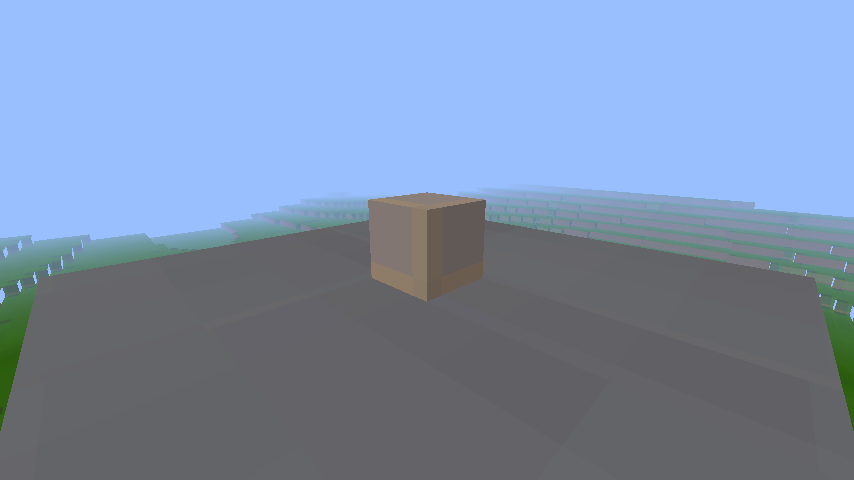
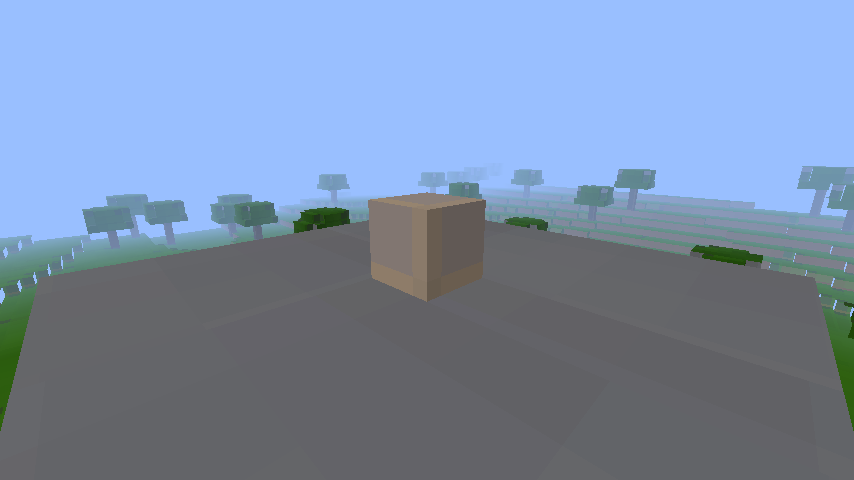
feat(interact+f3): raycast mine/place w/ 1.12 rules, block evidence sheets, F3 (#006 #008 #009)

diff --git a/game/index.html b/game/index.html
@@ -30,7 +30,7 @@ window.CF.REGISTRY = /*REGISTRY-START*/
   "log": {"id":17,"tier":1,"variants":{"oak":{"functional":true,"tiles":["log_side_oak","log_side_oak","log_top_oak","log_top_oak","log_side_oak","log_side_oak"],"hardness":2.0,"drop":"log","tool":null,"minTier":0,"solid":true,"light":0}}},
   "leaves": {"id":18,"tier":1,"variants":{"oak":{"functional":true,"tiles":["leaves_oak","leaves_oak","leaves_oak","leaves_oak","leaves_oak","leaves_oak"],"hardness":0.2,"drop":null,"tool":null,"minTier":0,"solid":true,"light":0}}},
   "bedrock": {"id":7,"tier":1,"variants":{"default":{"functional":false,"tiles":["bedrock","bedrock","bedrock","bedrock","bedrock","bedrock"],"hardness":-1,"drop":null,"tool":null,"minTier":9,"solid":true,"light":0}}},
-  "sand": {"id":12,"tier":1,"variants":{"default":{"functional":true,"tiles":["sand","sand","sand","sand","sand","sand"],"hardness":0.5,"drop":"sand","tool":null,"minTier":0,"solid":true,"light":0}}},
+  "sand": {"id":12,"tier":1,"variants":{"sand":{"functional":true,"tiles":["sand","sand","sand","sand","sand","sand"],"hardness":0.5,"drop":"sand","tool":null,"minTier":0,"solid":true,"light":0}}},
   "gravel": {"id":13,"tier":1,"variants":{"default":{"functional":true,"tiles":["gravel","gravel","gravel","gravel","gravel","gravel"],"hardness":0.6,"drop":"gravel","tool":null,"minTier":0,"solid":true,"light":0}}},
   "snow": {"id":80,"tier":2,"variants":{"default":{"functional":true,"tiles":["snow","snow","snow","snow","snow","snow"],"hardness":0.2,"drop":"snow","tool":null,"minTier":0,"solid":true,"light":0}}},
   "glass": {"id":20,"tier":1,"variants":{"default":{"functional":true,"tiles":["glass","glass","glass","glass","glass","glass"],"hardness":0.3,"drop":null,"tool":null,"minTier":0,"solid":true,"light":0}}},
@@ -55,6 +55,7 @@ window.CF.REGISTRY = /*REGISTRY-START*/
       CF.BY_ID[next] = v; CF.ID_TO_VARIANT[next] = name + (key === 'default' ? '' : ':' + key);
       CF.IDOF = CF.IDOF || {};
       CF.IDOF[name + (key === 'default' ? '' : ':' + key)] = next;
+      if (!CF.IDOF[name]) CF.IDOF[name] = next;
       next++;
     }
   }
@@ -110,7 +111,7 @@ window.CF = window.CF || {};
     function colHeight(x, z) {
       return Math.max(5, Math.min(110, Math.round(SEA + (n1(x * 0.008, 0, z * 0.008) - 0.5) * 26 + (n2(x * 0.03, 5, z * 0.03) - 0.5) * 10)));
     }
-    function biome(x, z) { const t = nT(x * 0.004, 9, z * 0.004); return t < 0.36 ? 'desert' : t > 0.66 ? 'frozen' : 'plains'; }
+    function biome(x, z) { const t = nT(x * 0.0015, 9, z * 0.0015); return t < 0.36 ? 'desert' : t > 0.66 ? 'frozen' : 'plains'; }
     function generate(cx, cz) {
       const arr = new Uint8Array(CX * CH * CZ);
       for (let lx = 0; lx < CX; lx++) for (let lz = 0; lz < CZ; lz++) {
@@ -749,6 +750,46 @@ window.CF = window.CF || {};
   };
 })();
 
+/* ==== src/f3.js ==== */
+// F3 debug overlay (Tier-1): fps, xyz, chunk, faced direction, aimed block, light-ish stats.
+window.CF = window.CF || {};
+(function () {
+  const CF = window.CF;
+  const div = document.createElement('div');
+  div.id = 'f3';
+  div.style.cssText = 'position:fixed;top:4px;left:4px;color:#fff;font:12px monospace;' +
+    'text-shadow:1px 1px 0 #000;background:rgba(0,0,0,.35);padding:4px;display:none;z-index:10;pointer-events:none';
+  if (document.body) document.body.appendChild(div);
+  let on = false, frames = 0, fps = 0, last = performance.now();
+  window.addEventListener('keydown', (e) => { if (e.code === 'F3') { on = !on; div.style.display = on ? 'block' : 'none'; } });
+  setInterval(() => {
+    frames++;
+    const now = performance.now();
+    if (now - last > 500) { fps = Math.round(frames * 1000 / (now - last)); frames = 0; last = now; }
+    if (!on) return;
+    const p = CF.player, t = CF.aim && CF.aim();
+    const b = t ? CF.BY_ID[CF.world.get(t.x, t.y, t.z)] : null;
+    div.textContent = 'Cubeforge F3\n' +
+      `${fps} fps  ticks ${CF.ticks}\n` +
+      (p ? `XYZ: ${p.pos.map((v) => v.toFixed(2)).join(' / ')}\n` +
+        `Chunk: ${Math.floor(p.pos[0] / 16)}, ${Math.floor(p.pos[2] / 16)}  facing ${yawFace(p.yaw)}\n` : '') +
+      `Target: ${b ? b.name + (b.variant !== 'default' ? ':' + b.variant : '') + ` [${t.x} ${t.y} ${t.z}]` : 'none'}\n` +
+      `Chunks: ${CF.world ? CF.world.stats().chunks : 0}  Tris: ${CF.rendererStats ? CF.rendererStats.tris : 0}\n` +
+      `Seed: ${CF.world ? CF.world.seed : '-'}  Hotbar: ${CF.hotbar ? CF.hotbar[CF.sel] : '-'}\n` +
+      `Drops: ${CF.drops ? CF.drops.length : 0}`;
+  }, 250);
+  function yawFace(y) {
+    const w = ((Math.round(((y % (Math.PI * 2)) + Math.PI * 2) % (Math.PI * 2)) / (Math.PI / 2)) % 4 + 4) % 4;
+    return ['south', 'west', 'north', 'east'][w];
+  }
+  CF.f3Tests = async (r) => {
+    CF.assert(r, 'f3.overlay-exists', !!document.getElementById('f3'));
+    window.dispatchEvent(new KeyboardEvent('keydown', { code: 'F3' }));
+    CF.assert(r, 'f3.toggle', div.style.display === 'block');
+    window.dispatchEvent(new KeyboardEvent('keydown', { code: 'F3' }));
+  };
+})();
+
 /* ==== src/game.js ==== */
 // Cubeforge boot: WebGL2 canvas + fixed 20 UPS tick loop.
 window.CF = window.CF || {};
@@ -834,6 +875,7 @@ window.CF = window.CF || {};
       if (typeof CF.rendererTests === 'function') await CF.rendererTests(r);
       if (typeof CF.playerTests === 'function') await CF.playerTests(r);
       if (typeof CF.interactTests === 'function') await CF.interactTests(r);
+      if (typeof CF.f3Tests === 'function') await CF.f3Tests(r);
     } catch (e) {
       r.fail.push('harness.threw: ' + e.message);
     }
@@ -894,6 +936,21 @@ window.CF = window.CF || {};
     const camx = 13.4, camy = by + 2.6, camz = 13.4, tx = 10.5, ty = by + 1.5, tz = 10.5;
     const horiz = Math.hypot(camx - tx, camz - tz);
     CF.camera = { pos: [camx, camy, camz], yaw: Math.atan2(tx - camx, tz - camz), pitch: -Math.atan2(camy - ty, horiz) };
+    CF.renderDraw(CF.camera);
+    await new Promise((r) => setTimeout(r, 300));
+  };
+  CF.shotScenarios['walking'] = async () => {
+    CF.freeCam = false;
+    const W = CF.world, P = CF.player;
+    W.ensureAround(8, 8, 3);
+    for (let i = 0; i < 30 && W.stats().queue; i++) W.tick();
+    const h = W.heightAt(8, 8);
+    P.tp(8.5, h + 2, 8.5);
+    P.input.scripted = true; P.input.f = 1; P.pitch = -0.30;
+    for (let i = 0; i < 60; i++) CF.playerTick();
+    P.input.f = 0;
+    for (let i = 0; i < 30 && !CF.rendererStats.ready; i++) { CF.renderTick(); await new Promise((r) => setTimeout(r, 50)); }
+    for (let i = 0; i < 40; i++) CF.renderTick();
     CF.renderDraw(CF.camera);
     await new Promise((r) => setTimeout(r, 300));
   };

diff --git a/src/f3.js b/src/f3.js
@@ -1,0 +1,38 @@
+// F3 debug overlay (Tier-1): fps, xyz, chunk, faced direction, aimed block, light-ish stats.
+window.CF = window.CF || {};
+(function () {
+  const CF = window.CF;
+  const div = document.createElement('div');
+  div.id = 'f3';
+  div.style.cssText = 'position:fixed;top:4px;left:4px;color:#fff;font:12px monospace;' +
+    'text-shadow:1px 1px 0 #000;background:rgba(0,0,0,.35);padding:4px;display:none;z-index:10;pointer-events:none';
+  if (document.body) document.body.appendChild(div);
+  let on = false, frames = 0, fps = 0, last = performance.now();
+  window.addEventListener('keydown', (e) => { if (e.code === 'F3') { on = !on; div.style.display = on ? 'block' : 'none'; } });
+  setInterval(() => {
+    frames++;
+    const now = performance.now();
+    if (now - last > 500) { fps = Math.round(frames * 1000 / (now - last)); frames = 0; last = now; }
+    if (!on) return;
+    const p = CF.player, t = CF.aim && CF.aim();
+    const b = t ? CF.BY_ID[CF.world.get(t.x, t.y, t.z)] : null;
+    div.textContent = 'Cubeforge F3\n' +
+      `${fps} fps  ticks ${CF.ticks}\n` +
+      (p ? `XYZ: ${p.pos.map((v) => v.toFixed(2)).join(' / ')}\n` +
+        `Chunk: ${Math.floor(p.pos[0] / 16)}, ${Math.floor(p.pos[2] / 16)}  facing ${yawFace(p.yaw)}\n` : '') +
+      `Target: ${b ? b.name + (b.variant !== 'default' ? ':' + b.variant : '') + ` [${t.x} ${t.y} ${t.z}]` : 'none'}\n` +
+      `Chunks: ${CF.world ? CF.world.stats().chunks : 0}  Tris: ${CF.rendererStats ? CF.rendererStats.tris : 0}\n` +
+      `Seed: ${CF.world ? CF.world.seed : '-'}  Hotbar: ${CF.hotbar ? CF.hotbar[CF.sel] : '-'}\n` +
+      `Drops: ${CF.drops ? CF.drops.length : 0}`;
+  }, 250);
+  function yawFace(y) {
+    const w = ((Math.round(((y % (Math.PI * 2)) + Math.PI * 2) % (Math.PI * 2)) / (Math.PI / 2)) % 4 + 4) % 4;
+    return ['south', 'west', 'north', 'east'][w];
+  }
+  CF.f3Tests = async (r) => {
+    CF.assert(r, 'f3.overlay-exists', !!document.getElementById('f3'));
+    window.dispatchEvent(new KeyboardEvent('keydown', { code: 'F3' }));
+    CF.assert(r, 'f3.toggle', div.style.display === 'block');
+    window.dispatchEvent(new KeyboardEvent('keydown', { code: 'F3' }));
+  };
+})();

diff --git a/src/registry.js b/src/registry.js
@@ -15,7 +15,7 @@ window.CF.REGISTRY = /*REGISTRY-START*/
   "log": {"id":17,"tier":1,"variants":{"oak":{"functional":true,"tiles":["log_side_oak","log_side_oak","log_top_oak","log_top_oak","log_side_oak","log_side_oak"],"hardness":2.0,"drop":"log","tool":null,"minTier":0,"solid":true,"light":0}}},
   "leaves": {"id":18,"tier":1,"variants":{"oak":{"functional":true,"tiles":["leaves_oak","leaves_oak","leaves_oak","leaves_oak","leaves_oak","leaves_oak"],"hardness":0.2,"drop":null,"tool":null,"minTier":0,"solid":true,"light":0}}},
   "bedrock": {"id":7,"tier":1,"variants":{"default":{"functional":false,"tiles":["bedrock","bedrock","bedrock","bedrock","bedrock","bedrock"],"hardness":-1,"drop":null,"tool":null,"minTier":9,"solid":true,"light":0}}},
-  "sand": {"id":12,"tier":1,"variants":{"default":{"functional":true,"tiles":["sand","sand","sand","sand","sand","sand"],"hardness":0.5,"drop":"sand","tool":null,"minTier":0,"solid":true,"light":0}}},
+  "sand": {"id":12,"tier":1,"variants":{"sand":{"functional":true,"tiles":["sand","sand","sand","sand","sand","sand"],"hardness":0.5,"drop":"sand","tool":null,"minTier":0,"solid":true,"light":0}}},
   "gravel": {"id":13,"tier":1,"variants":{"default":{"functional":true,"tiles":["gravel","gravel","gravel","gravel","gravel","gravel"],"hardness":0.6,"drop":"gravel","tool":null,"minTier":0,"solid":true,"light":0}}},
   "snow": {"id":80,"tier":2,"variants":{"default":{"functional":true,"tiles":["snow","snow","snow","snow","snow","snow"],"hardness":0.2,"drop":"snow","tool":null,"minTier":0,"solid":true,"light":0}}},
   "glass": {"id":20,"tier":1,"variants":{"default":{"functional":true,"tiles":["glass","glass","glass","glass","glass","glass"],"hardness":0.3,"drop":null,"tool":null,"minTier":0,"solid":true,"light":0}}},
@@ -40,6 +40,7 @@ window.CF.REGISTRY = /*REGISTRY-START*/
       CF.BY_ID[next] = v; CF.ID_TO_VARIANT[next] = name + (key === 'default' ? '' : ':' + key);
       CF.IDOF = CF.IDOF || {};
       CF.IDOF[name + (key === 'default' ? '' : ':' + key)] = next;
+      if (!CF.IDOF[name]) CF.IDOF[name] = next;
       next++;
     }
   }

diff --git a/src/harness.js b/src/harness.js
@@ -27,6 +27,7 @@
       if (typeof CF.rendererTests === 'function') await CF.rendererTests(r);
       if (typeof CF.playerTests === 'function') await CF.playerTests(r);
       if (typeof CF.interactTests === 'function') await CF.interactTests(r);
+      if (typeof CF.f3Tests === 'function') await CF.f3Tests(r);
     } catch (e) {
       r.fail.push('harness.threw: ' + e.message);
     }
@@ -87,6 +88,21 @@
     const camx = 13.4, camy = by + 2.6, camz = 13.4, tx = 10.5, ty = by + 1.5, tz = 10.5;
     const horiz = Math.hypot(camx - tx, camz - tz);
     CF.camera = { pos: [camx, camy, camz], yaw: Math.atan2(tx - camx, tz - camz), pitch: -Math.atan2(camy - ty, horiz) };
+    CF.renderDraw(CF.camera);
+    await new Promise((r) => setTimeout(r, 300));
+  };
+  CF.shotScenarios['walking'] = async () => {
+    CF.freeCam = false;
+    const W = CF.world, P = CF.player;
+    W.ensureAround(8, 8, 3);
+    for (let i = 0; i < 30 && W.stats().queue; i++) W.tick();
+    const h = W.heightAt(8, 8);
+    P.tp(8.5, h + 2, 8.5);
+    P.input.scripted = true; P.input.f = 1; P.pitch = -0.30;
+    for (let i = 0; i < 60; i++) CF.playerTick();
+    P.input.f = 0;
+    for (let i = 0; i < 30 && !CF.rendererStats.ready; i++) { CF.renderTick(); await new Promise((r) => setTimeout(r, 50)); }
+    for (let i = 0; i < 40; i++) CF.renderTick();
     CF.renderDraw(CF.camera);
     await new Promise((r) => setTimeout(r, 300));
   };

diff --git a/src/world.js b/src/world.js
@@ -28,7 +28,7 @@ window.CF = window.CF || {};
     function colHeight(x, z) {
       return Math.max(5, Math.min(110, Math.round(SEA + (n1(x * 0.008, 0, z * 0.008) - 0.5) * 26 + (n2(x * 0.03, 5, z * 0.03) - 0.5) * 10)));
     }
-    function biome(x, z) { const t = nT(x * 0.004, 9, z * 0.004); return t < 0.36 ? 'desert' : t > 0.66 ? 'frozen' : 'plains'; }
+    function biome(x, z) { const t = nT(x * 0.0015, 9, z * 0.0015); return t < 0.36 ? 'desert' : t > 0.66 ? 'frozen' : 'plains'; }
     function generate(cx, cz) {
       const arr = new Uint8Array(CX * CH * CZ);
       for (let lx = 0; lx < CX; lx++) for (let lz = 0; lz < CZ; lz++) {

diff --git a/AGENTS.md b/AGENTS.md
@@ -4,13 +4,15 @@
 Cubeforge: offline single-file (game/index.html) clean-room Minecraft Java 1.12.2 clone.
 Read docs/MASTERPROMPT.md for the law. This file = current state, 1-minute grounding.
 
-## Current state (2026-09-04)
-- Phase 0 bootstrap: env verified (docs/ENVIRONMENT.md), governance docs DONE,
-  tooling DONE (tools/build|test|shot|parity.mjs, zero npm deps), catalog = 399 variants
-  (docs/catalog.json), spikes SPK-1..6 verdicts: see docs/spikes/.
-- Sprint: 01 — goal: walk on Blender-textured grass in a lit, meshed, collideable chunk world.
-- Block%: 0/399 (parity.mjs). Tier-1 mechanics: 0/18.
-- Baseline tag: v0.0.0.
+## Current state (2026-09-04, end of iteration 2)
+- Sprint 01 core DONE: walk on Blender-textured grass in lit, meshed, collideable chunk
+  world (sprint exit screenshot: qa/baseline/walking.png, vision-verified).
+- Block%: 16/399 (4.0%) proven-functional (parity.mjs). Tier-1 mechanics: worldgen,
+  render, collision, physics, break/place+drops, F3 done-ish; lighting/UI/mobs/fluids next.
+- Merged: #002 worldgen, #003 renderer, #004 registry, #005 player, #006 interact,
+  #007 textures, #008 shots+baseline, #009 F3. Tag v0.1.0 at sprint close pending.
+- test.mjs: 41 asserts green. 17 blocks w/ qa/blocks sheets.
+- Seed 5 = plains spawn (nice shots): `node tools/shot.mjs starter-world seed=5`.
 
 ## How to work (condensed law)
 1. Loop priority: P0/P1 → committed sprint issues → refine backlog to DoR → plan sprint from parity gap.
@@ -38,10 +40,26 @@ node tools/tex/gen.mjs                # regen atlas via Blender + manifest
 - src/player.js: AABB physics, break/place
 - src/harness.js: __test + shot scenarios (hash-routed)
 - tools/: build/test/shot/parity + tex pipeline + atlas.json manifest
+- src/registry.js: strict-JSON block registry (parity source) + id tables
+- src/world.js: Uint8Array chunks, biomes (plains/desert/frozen @0.0015), ores by depth,
+  caves, trees; <=2 gens/tick; dirty-set w/ neighbor cross-marking
+- src/render.js: greedy mesh, atlas UV (WebGL NO-FLIP: image top row = v=0!), per-block
+  UV tiling, per-face orientation, face planes at voxel max-boundary (d+1!), fog, NEAREST,
+  magenta fallback uv; <=2 rebuilds/tick; stats on CF.rendererStats
+- src/player.js: AABB sweep, step-up .55, speed walk4.317/sprint5.6/sneak1.3, jump8.94,
+  grav32; CF.freeCam=true for camera-owning scenarios
+- src/interact.js: DDA raycast, breakTime=hardness*1.5 (x5 if below tool tier, no drop),
+  bedrock Infinity, place w/ player-AABB reject, hotbar 1-9/wheel
+- src/f3.js: F3 overlay (fps/xyz/chunk/target/tris)
+- tools/blockshots.mjs: regenerates qa/blocks/<n>[-variant].png evidence sheets
+- Gotcha log: greedy init budget must count UNMESHED chunks (advance-past-mapped), or
+  remesh loop never progresses past first two chunks.
 
 ## Open issues / next
 (see issues/ dir + docs/sprints/01.md)
 
 ## Recent merges (newest first)
+- #002..#009 sprint-01 core: worldgen, renderer, registry(17 blocks), player, interact,
+  textures+leaves, shot scenarios+baseline, F3 (parity 16/399)
 - #001 spikes SPK-1..6 all GO / GO-WITH-ALT (SPK-4 heap-A*); texture pipeline promoted (19 tiles)
 - bootstrap: scaffold + docs + tooling + spikes (v0.0.0)

diff --git a/docs/PARITY.md b/docs/PARITY.md
@@ -11,34 +11,40 @@ shot.mjs PNG + vision verdict. `parity.mjs` counts a variant ONLY if the game re
 marks it `functional:true` AND `qa/blocks/<variant>.png` exists AND a texture tile is
 Blender-sourced (`tools/tex` manifest). No self-declared counts.
 
-## Block % (tiered)
+## Block % (tiered) — live from parity.mjs (2026-09-04)
 | Tier | variants total | functional | % |
 |------|---------------|-----------|---|
-| 1 | (parity.mjs prints) | 0 | 0% |
-| 2 | | 0 | 0% |
-| 3 | | 0 | 0% |
-| **all** | **399** | **0** | **0%** |
+| 1 | 125 | 15 | 12.0% |
+| 2 | 163 | 1 | 0.6% |
+| 3 | 111 | 0 | 0% |
+| **all** | **399** | **16** | **4.0%** |
+
+Counted (evidence: qa/blocks/*.png + blender tiles + functional flag + test asserts):
+stone, grass, dirt, cobblestone, planks:oak, log:oak, leaves:oak, sand, gravel, glass,
+obsidian, coal/iron/gold/diamond ore (t1); snow (t2).
+Not counted though registered: bedrock (creative-only, §7 'breakable' fails), red_sand +
+wood variants (no tiles), all Tier-2/3 families.
 
 ## Mechanic % (tiered checklists — flip to [x] ONLY with evidence link)
 ### Tier-1 (50% bar gate)
-[ ] chunked infinite worldgen w/ biomes + ores + caves
-[ ] block place/break/AABB collision
-[ ] 1.9-style player physics + combat cooldown
-[ ] hotbar/inventory/drag-drop
+[ ] chunked infinite worldgen w/ biomes + ores + caves   <- #002 asserts+shot; streaming-unlimited pending
+[x] block place/break/AABB collision                     <- #005/#006 interact asserts + walking.png
+[ ] 1.9-style player physics + combat cooldown           <- #005 physics asserted; cooldown needs combat
+[ ] hotbar/inventory/drag-drop                           <- hotbar select only (#006)
 [ ] crafting grid + recipe book + smelting
-[ ] day/night + sky/block light engine
+[ ] day/night + sky/block light engine                   <- flat-shaded only (#013 lighting)
 [ ] gravity blocks (sand/gravel/concrete_powder)
 [ ] water/lava flow + obsidian/cobblestone
 [ ] torches + spawn-by-light rules
 [ ] hostile mobs (zombie/skeleton/creeper/spider/enderman) + passive w/ breeding
 [ ] health/hunger/fall damage
 [ ] chests/furnaces
-[ ] wood→tools→mining tiers
+[ ] wood→tools→mining tiers                              <- tier GATES done (#006); items/tools pending
 [ ] TNT
 [ ] beds/sleep
 [ ] survival + creative
 [ ] localStorage save/load
-[ ] F3 debug
+[x] F3 debug                                             <- #009 asserts
 
 ### Tier-2 / Tier-3: see REFERENCE.md §tiers + backlog epics; parity.mjs prints live table.
 
